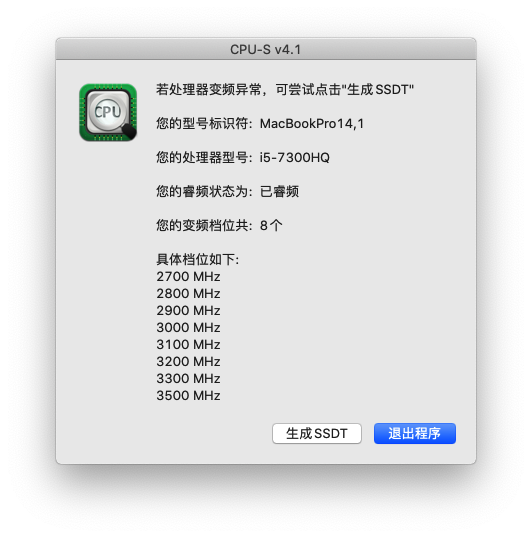
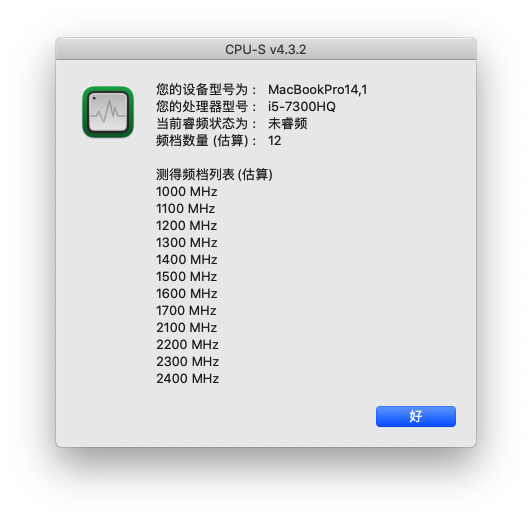
更新说明

diff --git a/README.md b/README.md
@@ -17,11 +17,11 @@
 
 ![info](img/Bluetooth.png)
 
-变频我还没完善，默认的有8档。
+变频我还没完善，默认的有12档。
 
 ![变频](img/cpu.png)
 
-核显驱动方法见：[黑苹果 | 4 步驱动 Intel 核显](https://blog.zuiyu1818.cn/posts/Hac_Intel_Graphics_simple.html) ，我使用的是0x16190000 
+核显驱动方法见：[黑苹果 | 4 步驱动 Intel 核显](https://blog.zuiyu1818.cn/posts/Hac_Intel_Graphics_simple.html) ，我使用的是0x16190000 ，至于为什么模拟的是上一代的CPU，主要是我试了用0x591B00，发现效果并没有这个好，而且日常使用也没有任何问题。
 
 - 2020-1-27更新
 
@@ -38,3 +38,7 @@
 * 2020-08-06
 
   更新到了10.15.6，电量显示掉了，加了`ACPIBatteryManager.kext`这个驱动后，现在显示正常。
+  
+* 2021-01-08
+
+  最近没有更新系统版本，但是对部分驱动更新了，现在运行10.15.6版本感觉不错，不插电耗电也比之前好多了。Opencore都出来这么久了，不是我不想换，而是我正在尝试当中，还有许多问题没有解决。
